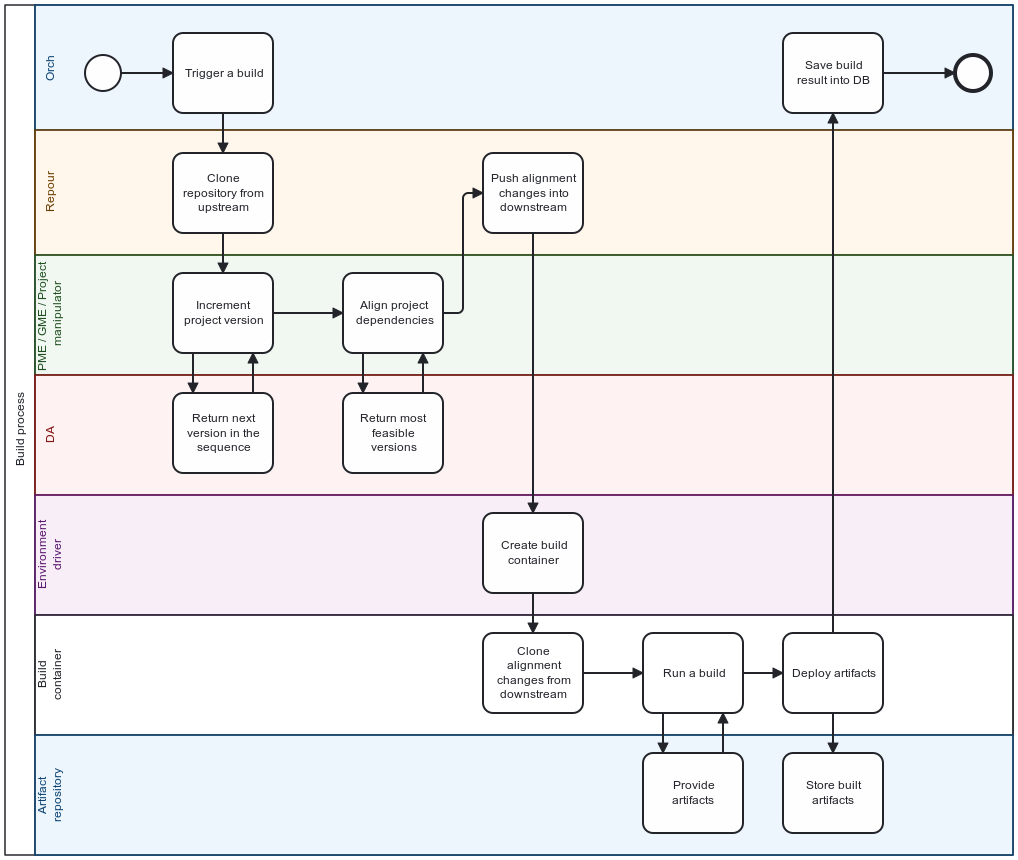
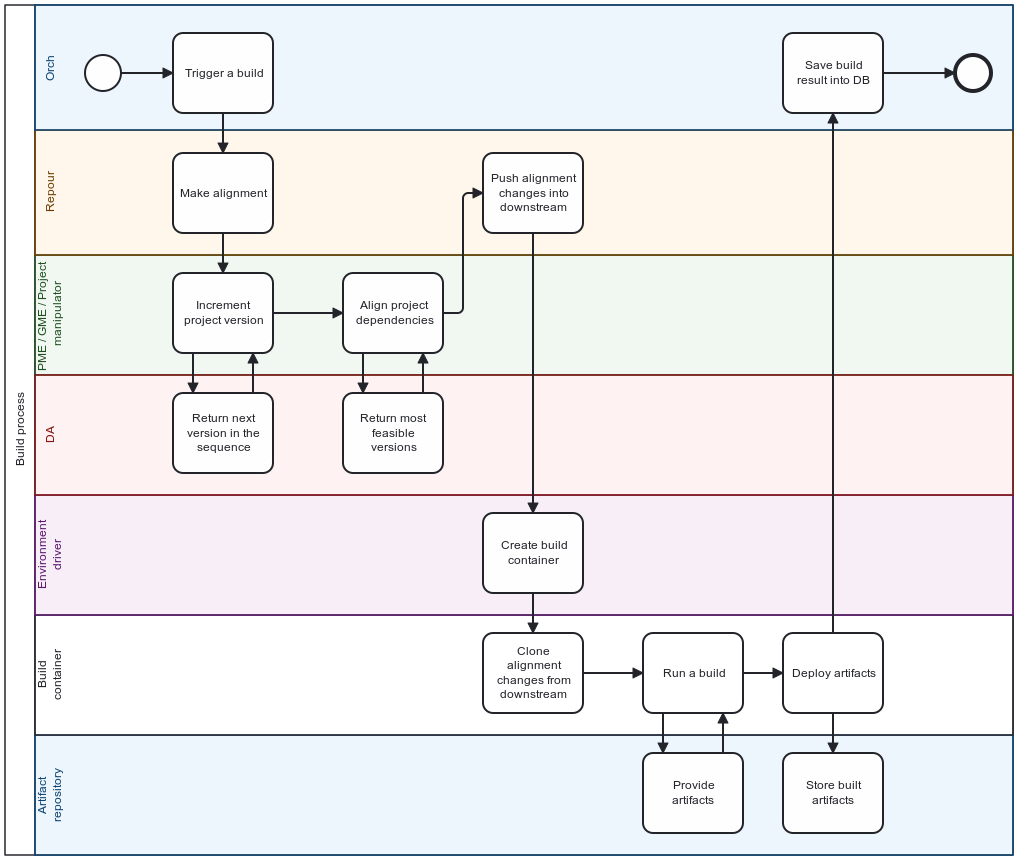
Add chapter 2

Changed region(s): [[0.1827, 0.1814, 0.2741, 0.2419]]

diff --git a/chapters/repour/sections/server-init.tex b/chapters/repour/sections/server-init.tex
@@ -1,0 +1,106 @@
+\documentclass[../main.tex]{subfiles}
+
+\begin{document}
+
+Repour is written in Python using asyncio library\footnote{\url{https://docs.python.org/3/library/asyncio.html}}, which is designed to write concurrent code using the \textit{async/await} syntax. The core of asyncio applications is the event loop\footnote{\url{https://docs.python.org/3/library/asyncio-eventloop.html##asyncio-event-loop}}, which takes care of asynchronous tasks, its callbacks, IO operations, and others.
+
+Repour server is being initialized through several methods — below are listed the most important parts of the initialization (all of these listings are taken\footnote{There is not 1:1 correspondence, since pseudocodes covered in this text are simplified.} from Repour's GitHub using \textit{akridl-thesis} tag as the revision: \url{https://github.com/project-ncl/repour/blob/akridl-thesis}).
+
+\begin{lstlisting}[language=Python, caption=Server initialization: \textit{start\_server} method, label={lst:startServer}]
+def start_server(bind, repo_provider, repour_url, adjust_provider):
+    loop = asyncio.get_event_loop()
+
+    loop.run_until_complete(
+        init(
+            loop=loop,
+            bind=bind,
+            repo_provider=repo_provider,
+            repour_url=repour_url,
+            adjust_provider=adjust_provider,
+        )
+    )
+
+    try:
+        loop.run_forever()
+    except KeyboardInterrupt:
+        logger.debug("KeyboardInterrupt")
+\end{lstlisting}
+
+In the listing \ref{lst:startServer} displaying \textit{start\_server()}\footnote{\url{https://github.com/project-ncl/repour/blob/akridl-thesis/repour/server/server.py##L99}}, we can see:
+\begin{itemize}
+    \item \textbf{L2:}\\
+    Obtaining of asyncio's event loop.
+
+    \item \textbf{L4-12:}\\
+    Initialize the application as described at the listing \ref{lst:init}.
+
+    \item \textbf{L14-17:}\\
+    Only once was the intialization of the event loop completed, start the server indefinitely. Allow the server to be killed by keyboard interrupt.
+\end{itemize}
+
+\begin{lstlisting}[language=Python, caption=Server intialization: \textit{init} method, label={lst:init}]
+async def init(loop, bind, repo_provider, repour_url, adjust_provider):
+    app = web.Application(loop=loop)
+
+    external_to_internal_source = endpoint.validated_json_endpoint(
+        shutdown_callbacks,
+        validation.external_to_internal,
+        external_to_internal.translate,
+        repour_url,
+    )
+
+    clone_source = endpoint.validated_json_endpoint(
+        shutdown_callbacks,
+        validation.clone,
+        clone.clone,
+        repour_url,
+        send_logs_to_bifrost=False,
+    )
+
+    adjust_source = endpoint.validated_json_endpoint(
+        shutdown_callbacks, validation.adjust_modeb, adjust.adjust, repour_url
+    )
+
+    internal_scm_source = endpoint.validated_json_endpoint(
+        shutdown_callbacks,
+        validation.internal_scm,
+        internal_scm.internal_scm,
+        repour_url,
+        send_logs_to_bifrost=False,
+    )
+
+    app.router.add_route("GET", "/", info.handle_request)
+    app.router.add_route(
+        "POST", "/git-external-to-internal", external_to_internal_source
+    )
+    app.router.add_route("POST", "/clone", clone_source)
+    app.router.add_route("POST", "/adjust", adjust_source)
+    app.router.add_route("POST", "/internal-scm", internal_scm_source)
+    app.router.add_route("POST", "/cancel/{task_id}", cancel.handle_cancel)
+    app.router.add_route("GET", "/version", info.handle_version)
+
+    server = await loop.create_server(
+        app.make_handler(access_log=None), bind["address"], bind["port"]
+    )
+\end{lstlisting}
+
+    %% TODO: app.router.add_route("GET", "/metrics", aio.web.server_stats)
+    %% what about this endpoint? Should I explain?
+
+In the listing \ref{lst:init} displaying \textit{init()}\footnote{\url{https://github.com/project-ncl/repour/blob/akridl-thesis/repour/server/server.py##L32}}, we can see:
+\begin{itemize}
+    \item \textbf{L2:}\\
+    Initialize \textit{app} as a web server.
+
+    \item \textbf{L4-29:}\\
+    Initialize endpoint handlers.
+
+    \item \textbf{L31-40:}\\
+    Register previously intialized endpoint handlers as routes.
+
+    \item \textbf{L42-44:}\\
+    Finally, create a TCP server binded to the specified address and port.
+
+\end{itemize}
+
+\end{document}

diff --git a/chapters/repour/sections/endpoints/subsections/what.tex b/chapters/repour/sections/endpoints/subsections/what.tex
@@ -1,0 +1,59 @@
+\documentclass[../main.tex]{subfiles}
+
+\begin{document}
+
+The listing \ref{lst:init} (at lines 31-39) registers all the endpoint handlers into the application router. Hence, it is clearly determined what endpoints Repour has.
+
+\begin{itemize}
+    \item \textbf{\textit{POST /git-external-to-internal}}\\
+    Translation of external Git repository URL into its corresponding internal counterpart.
+
+    For instance, suppose given is external URL \url{https://github.com/akridl/empty}. Internal URL corresponding to this external URL could be e.g. \url{https://gitlab.internal.redhat.com/pnc/akridl/empty}\footnote{Unlike external URL, internal URL is hidden behind Red Hat's firewall, hence not publicly available. However, from security reasons, this URL does not point to real Red Hat GitLab instance anyways.}.
+
+    \item \textbf{\textit{POST /clone}}\\
+    Clone (either partially or fully) from external Git repository into internal Git repository.
+    
+    \item \textbf{\textit{POST /internal-scm}}\\
+    Creation of Source Code Management (SCM) repository within Red Hat internal GitLab instance and PNC workspace.
+
+    \item \textbf{\textit{POST /adjust}}\\
+    Trigger an alignment operation (as described in \ref{section:pnc}).
+
+    \item \textbf{\textit{POST /cancel/\{taskId\}}}\\
+    Cancel the operation with the given \textit{taskId}.
+    
+    \item \textbf{\textit{GET /version}}\\
+    Information about the running JAR in the JSON format containing the following fields:
+    \begin{itemize}
+        \item \textbf{name:}\\
+        Name of the application
+
+        \item \textbf{version:}\\
+        Version of the application
+
+        \item \textbf{commit:}\\
+        Commit upon which was the JAR built
+
+        \item \textbf{builtOn:}\\
+        Date and time when was the JAR built (in ISO-8601 UTC format\footnote{\url{https://www.ietf.org/rfc/rfc3339.txt}})
+
+        \item \textbf{components:}\\
+        Array of additional components in the same format as this JSON being described.\\
+    \end{itemize}
+    
+    \begin{lstlisting}[numbers=none, caption=Example of \textit{/version} endpoint output, label={lst:versionExample}]
+    {
+        "name": "reqour-rest",
+        "version": "1.0.0-SNAPSHOT",
+        "commit": "17f4ad23ee059706154cfb527f72846ef5b8ccc9",
+        "builtOn": "2024-11-13T16:18:03Z",
+        "components": []
+    }
+    \end{lstlisting}
+
+    \item \textbf{\textit{GET /}}\\
+    Minimalistic HTML containing subset of information provided by \textit{/version} endpoint.
+    %% TODO: say that this is just a subset of what can be received from /version in chapter 3
+\end{itemize}
+
+\end{document}

diff --git a/chapters/context/sections/pnc/subsections/build-process.tex b/chapters/context/sections/pnc/subsections/build-process.tex
@@ -1,5 +1,4 @@
 \documentclass[../main.tex]{subfiles}
-%% \graphicspath{{\subfix{../images/}}}
 
 \begin{document}
 
@@ -8,15 +7,15 @@ To finalize our insight of how PNC works, we need to describe the build process 
     \item \textbf{Trigger a build}\\
     Build is triggered (almost exclusively) either from PNC UI or Bacon CLI. In both cases, this results in Orch's \textit{trigger build} endpoint being called. Every build is configured by its build configuration containing all the necessary information, e.g.:
     \begin{itemize}
-        \item \textbf{upstream repository:} publicly available repository with source code, e.g. \url{https://github.com/wildfly/wildfly}
+        \item \textbf{repository:} repository with source code, e.g. \url{https://github.com/wildfly/wildfly}
         \item \textbf{git reference:} (branch, tag or commit) revision which will be used to clone source code, e.g. \textit{34.0.0.Final}
         \item \textbf{build type:} either Maven, Gradle, NPM or SBT
         \item \textbf{build environment:} build environment used in build container
         \item \textbf{build script:} script executed in build container, e.g. \textit{mvn clean deploy}
     \end{itemize}
 
-    \item \textbf{Clone repository from upstream}\\
-    Repour clones specified upstream repository locally into the container environment in which it runs. Subsequently, it calls the corresponding manipulator based on the build type (for instance, for Maven build type, PME manipulator is picked).
+    \item \textbf{Start alignment}\\
+    Repour clones specified repository locally into the container environment in which it runs. Subsequently, it starts the alignment operation by calling the corresponding manipulator based on the build type (for instance, for Maven build type, PME manipulator is picked).
 
     \item \textbf{Alignment process}\\
     Manipulator configured from repour communicates with DA to perform both version increment and depdencies alignment.
@@ -41,7 +40,8 @@ To finalize our insight of how PNC works, we need to describe the build process 
     
 \end{enumerate}
 
-The whole build process is also visualized by BPMN diagram\footnote{\url{https://miro.com/diagramming/what-is-bpmn/}} shown in Figure \ref{fig:build-process-bpmn}.
+The whole build process is also visualized by BPMN diagram\footnote{\url{https://miro.com/diagramming/what-is-bpmn/}} shown in the Figure \ref{fig:build-process-bpmn}.\\
+\textbf{Note:} Even though the BPM microservice manages the whole process, it is not shown neither in text description nor in the Figure \ref{fig:build-process-bpmn} in order to prevent showing all the unnecessary details.
 
 \begin{figure}
   \begin{center}

diff --git a/chapters/context/sections/pnc/subsections/architecture.tex b/chapters/context/sections/pnc/subsections/architecture.tex
@@ -1,5 +1,4 @@
 \documentclass[../main.tex]{subfiles}
-%% \graphicspath{{\subfix{../images/}}}
 
 \begin{document}
 
@@ -11,8 +10,13 @@ Besides that, the system uses several external services, e.g. internal git repos
     \item \textbf{Orchestrator}\\
     Orchestrator (Orch) is a backend entrypoint for all user requests. It provides both REST API and java client as the way to connect to it. Users interact with PNC either through PNC UI (written in React - in which case, REST API is used to connect to orch) or bacon (CLI app written in Java using Picocli\footnote{\url{https://picocli.info/}} - in which case, java client is used to connect to orch).
 
+    \item \textbf{BPM}\\
+    BPM (Business Process Manager) is a microservice which manages all the processes (e.g. build process, which will be explained in the next section, or repository creation process described in \ref{section:endpoints}). It calls all the required endpoints from another microservices. Once the whole computation is executed, it returns the result into Orch which (typically) stores result in some form.
+
     \item \textbf{Repour}\\
-    Microservice for source code related operations: synchronization of upstream repositories (publicly available, e.g. at GitHub or GitLab repository) to downstream repositories (stored in \textbf{internal} GitLab instance). Besides this, Repour is also responsible for alignment operation which is delegated to additional tools (PME, GME, Project manipulator), see below.
+    Microservice for source code related operations: synchronization of upstream repositories (publicly available, e.g. at GitHub or GitLab repository) to downstream repositories (stored in \textbf{internal} GitLab instance). These internal repositories are the only ones, which PNC edits, i.e., PNC is not allowed to manipulate in any way with upstream repositories.
+    
+    Besides this, Repour is also responsible for alignment operation which is delegated to additional tools (PME, GME, Project manipulator), see below.
 
     \item \textbf{PME / GME / Project Manipulator}\\
     Manipulators executing alignment operation, specifically:

diff --git a/chapters/repour/sections/endpoints/subsections/when/subsubsections/repository-creation-process.tex b/chapters/repour/sections/endpoints/subsections/when/subsubsections/repository-creation-process.tex
@@ -1,0 +1,38 @@
+\documentclass[../main.tex]{subfiles}
+
+\begin{document}
+
+In section \ref{section:pnc}, we described the build process. However, that is not the only process PNC can execute (although being run the most often).
+
+Another such process is the process of repository creation. This is used by productization engineers when they want to create internal SCM repository within PNC workspace, where PNC is allowed to contribute to (e.g. push alignment changes). Such an internal repository is (at least when being created) synchronized to its external repository counterpart.
+
+The repository creation process works (from high-level perspective) as follows:
+
+\begin{enumerate}
+    \item \textbf{Orch handles \textit{POST /create-and-sync} request}\\
+    This endpoint is triggered either from PNC UI or Bacon CLI
+
+    \item \textbf{Orch triggers repository creation process in BPM}\\
+    BPM starts the repository creation process
+
+    \item \textbf{BPM calls \textit{POST /git-external-to-internal}}\\
+    This is used for validation whether an internal repository with such an internal URL does not exist already.
+
+    \item \textbf{BPM calls \textit{POST /internal-scm}}\\
+    Create new internal SCM repository within PNC workspace.
+
+    \item \textbf{BPM calls \textit{\textit{POST /clone}}}\\
+    Clone external repository into internal one.
+\end{enumerate}
+
+\begin{figure}
+  \begin{center}
+    \includegraphics[width=\textwidth]{images/repository-creation-process.png}
+  \end{center}
+  \caption{Repository creation process}
+  \label{fig:repository-creation-process}
+\end{figure}
+
+Visual representation of the repository creation process is depicted in Figure \ref{fig:repository-creation-process}.
+
+\end{document}

diff --git a/chapters/context/sections/pnc/subsections/requirements.tex b/chapters/context/sections/pnc/subsections/requirements.tex
@@ -1,9 +1,8 @@
 \documentclass[../main.tex]{subfiles}
-%% \graphicspath{{\subfix{../images/}}}
 
 \begin{document}
 
-In order to make release engineering pipeline effective, as many tasks as possible need to be automated. Within middleware productization\footnote{This is how is called the Release Engineering discipline in Red Hat} pipeline, one of these automated tasks is done by PNC build system. Hence, "customers" of PNC are middleware productization engineers and (non)functional requirements are created by them. The most notable requirements are:
+In order to make release engineering pipeline effective, as many tasks as possible need to be automated. Within middleware productization{This is how is called the Release Engineering discipline in Red Hat} pipeline, one of these automated tasks is done by PNC build system. Hence, "customers" of PNC are middleware productization engineers and (non)functional requirements are created by them. The most notable requirements are:
 
 \begin{itemize}
   \item \textbf{Structured data organization:} Productization engineers can
@@ -63,6 +62,8 @@ After alignment operation, that \textit{pom.xml} could be transformed into:
   \item \textbf{Support for multiple build tools:} Provide support for Maven, Gradle, NPM and SBT builds.
 
   \item \textbf{Ability to re-use build configurations:} Build configuration of the concrete product version can be re-used in its product milestones.
+
+  \item \textbf{Build cancellation:} Ability to cancel running build.
 
 \end{itemize}
 

diff --git a/chapters/repour/sections/endpoints/subsections/how.tex b/chapters/repour/sections/endpoints/subsections/how.tex
@@ -1,0 +1,23 @@
+\documentclass[../main.tex]{subfiles}
+
+\begin{document}
+
+Within the listing \ref{lst:init}, every endpoint is created by \textit{endpoint.validated\_json\_endpoint()}\footnote{\url{https://github.com/project-ncl/repour/blob/akridl-thesis/repour/server/endpoint/endpoint.py##L99}} method, which does (from high-level perspective) the following:
+
+\begin{enumerate}
+    %% TODO: say about MDC propagations?
+    \item \textbf{Parse JSON input request}\\
+    In case parsing fails, 400 is returned to the client right away.
+
+    \item \textbf{Validate parsed request}\\
+    Every endpoint provides the valid format which all the incoming requests must meet. In case invalid request is given, 400 is returned.
+
+    \item \textbf{Call the function}\\
+    Call the function provided as one of the arguments, which is doing the actual computation.
+
+    \item \textbf{Send the callback}\\
+    In case the callback was provided within the request, make the callback. The method handling callback sending is implemented to be resilient by using retries and exponential backoff between fails.
+
+\end{enumerate}
+
+\end{document}

diff --git a/chapters/context/sections/quarkus/subsections/quarkus.tex b/chapters/context/sections/quarkus/subsections/quarkus.tex
@@ -11,7 +11,7 @@ development. Quarkus emerged as an alternative to the existing Java
 microservices stacks to provide an application framework that delivers an
 unmatched performance benefits while still providing a development model
 utilizing the APIs (Application-Programming interfaces) of popular libraries
-and Java standards that the Java ecosystem has been practicing for years."\cite{quarkusinaction}.
+and Java standards that the Java ecosystem has been practicing for years."\cite{quarkusinaction}\cite{quarkusBook}.
 
 Documentation is separated as a series of guides\footnote{\url{https://quarkus.io/guides/}}. When describing implementation details later in the text, we will often reference concrete guides from this series.
 

diff --git a/chapters/context/sections/quarkus/main.tex b/chapters/context/sections/quarkus/main.tex
@@ -1,9 +1,8 @@
 \documentclass[../main.tex]{subfiles}
-%% \graphicspath{{\subfix{../images/}}}
 
 \begin{document}
 
-As was previously mentioned in Chapter \nameref{chap:introduction}, the goal of this thesis is to rewrite existing microservice into new microservice written in Quarkus. This makes brief explanation of what Quarkus is, a necessity.
+As was previously mentioned in \nameref{chap:introduction}, the goal of this thesis is to rewrite existing microservice into new microservice written in Quarkus. This makes brief explanation of what Quarkus is, a necessity.
 
 \subsection*{Jakarta EE}
 \subfile{./subsections/jakarta-ee}

diff --git a/chapters/repour/main.tex b/chapters/repour/main.tex
@@ -1,8 +1,14 @@
 \documentclass[../../main.tex]{subfiles}
-%% \graphicspath{{\subfix{../images/}}}
 
 \begin{document}
 
-Repour TBD
+In Chapter \ref{chap:context}, we introduced the build process and roughly discussed the role of Repour within the PNC Build System. In this chapter, we will explore Repour\cite{repour} in more detail — in particular, we will identify all the endpoints present and recognize when are these endpoints called.
+
+\section{Server intialization}
+\subfile{./sections/server-init}
+
+\section{Endpoints}
+\label{section:endpoints}
+\subfile{./sections/endpoints/main}
 
 \end{document}

diff --git a/chapters/repour/sections/endpoints/subsections/when/main.tex b/chapters/repour/sections/endpoints/subsections/when/main.tex
@@ -1,0 +1,19 @@
+\documentclass[../main.tex]{subfiles}
+
+\begin{document}
+
+In this part, we will describe when is each endpoint called.
+
+\subsubsection*{During repository creation process}
+\subfile{./subsubsections/repository-creation-process}
+
+\subsubsection*{During build process}
+\subfile{./subsubsections/build-process}
+
+\subsubsection*{During build cancellation}
+\subfile{./subsubsections/cancellation}
+
+\subsubsection*{During debugging}
+\subfile{./subsubsections/debugging}
+
+\end{document}

diff --git a/chapters/repour/sections/endpoints/subsections/when/subsubsections/cancellation.tex b/chapters/repour/sections/endpoints/subsections/when/subsubsections/cancellation.tex
@@ -1,0 +1,9 @@
+\documentclass[../main.tex]{subfiles}
+
+\begin{document}
+
+As was mentioned in \ref{section:pnc}, one of the PNC requirements is the ability to cancel any running build. For this those PNC microservices which perform long-running operations expose \textit{POST /cancel} endpoint.
+
+Alignment is an example of such long-running operation during build, which can be cancelled by invoking the \textit{POST /cancel} endpoint.
+
+\end{document}
